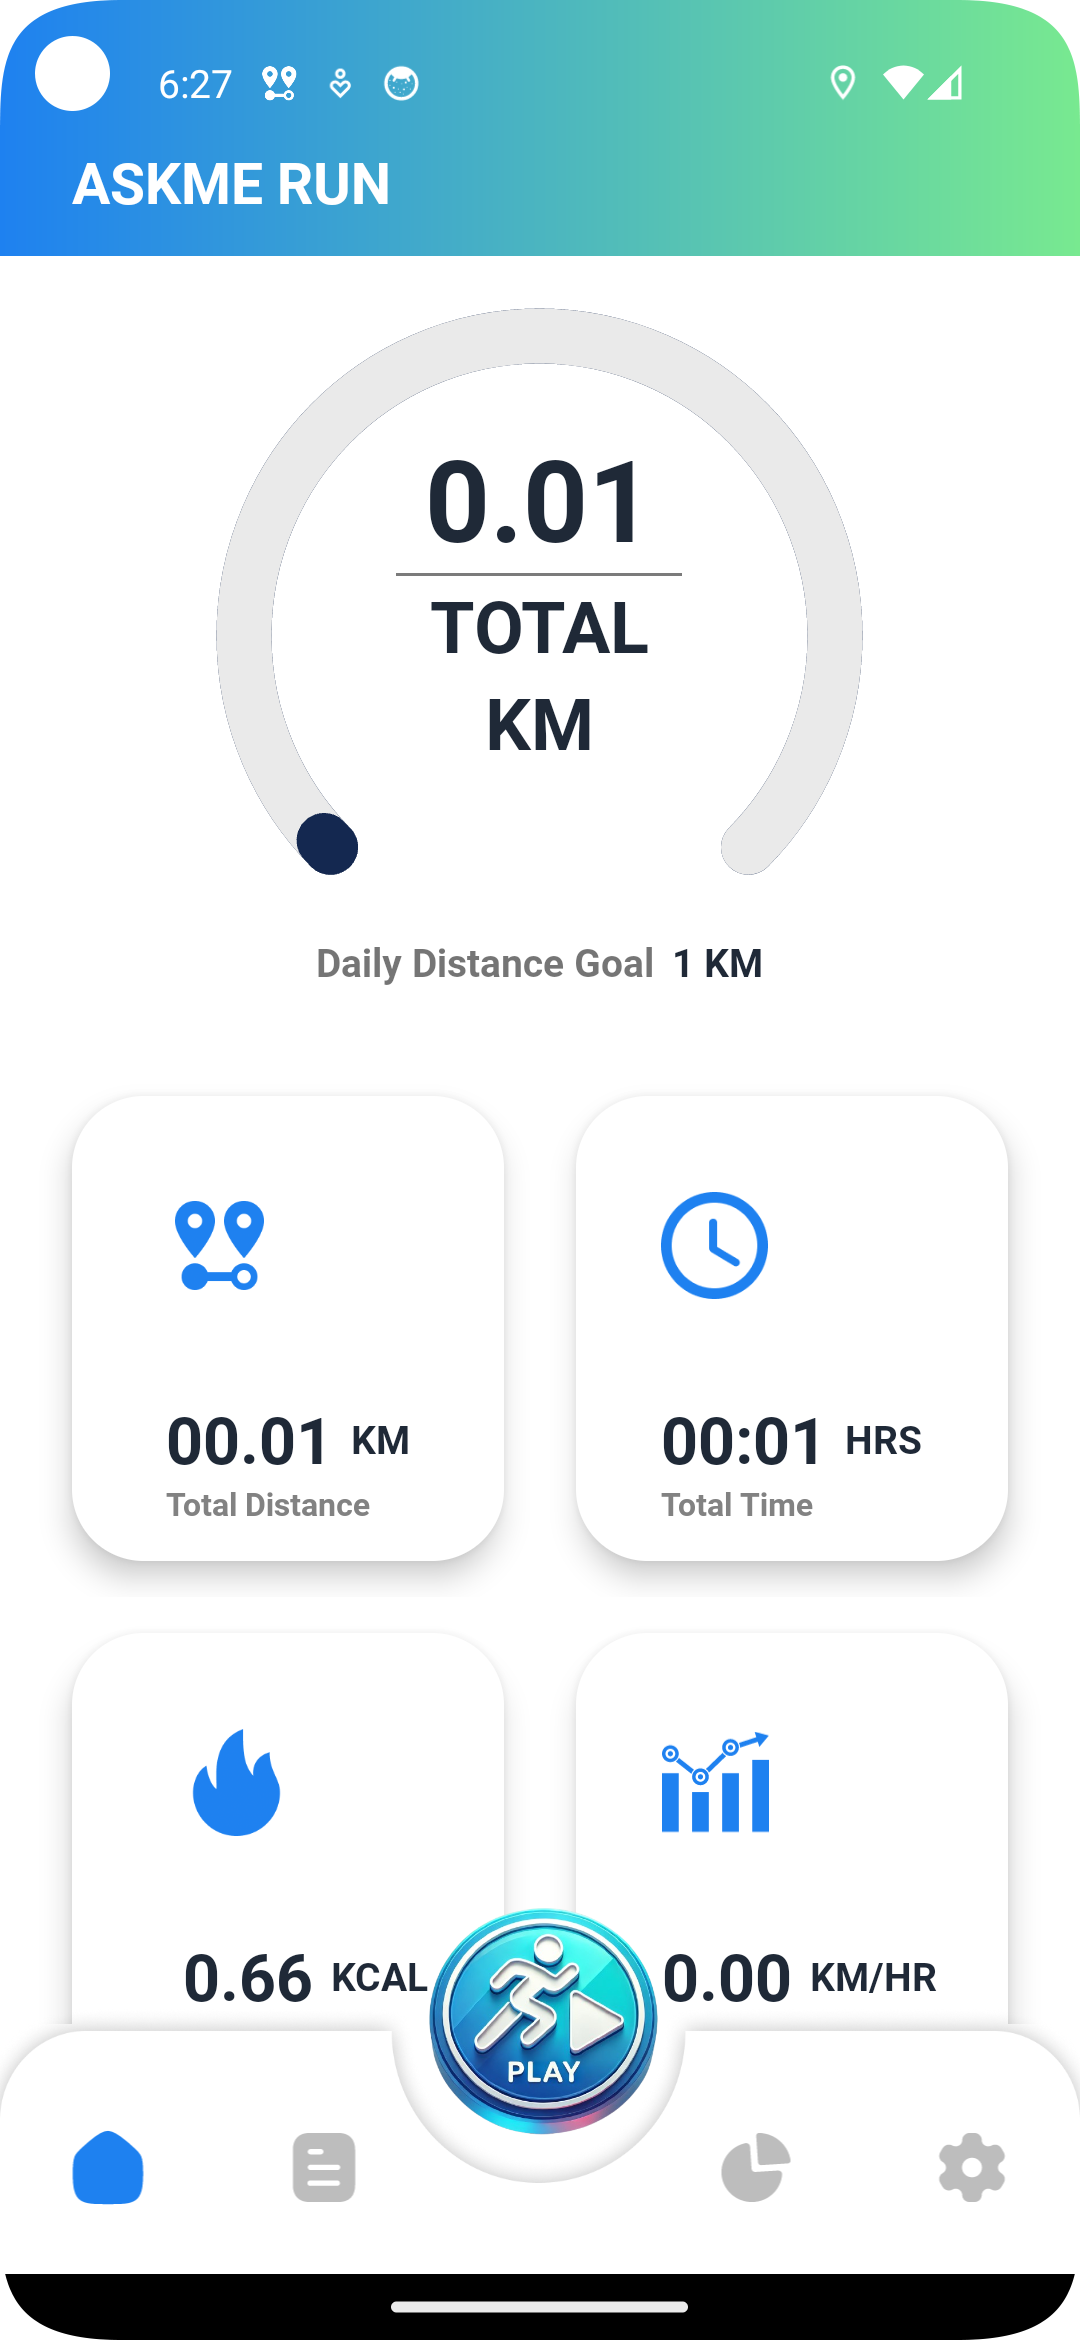
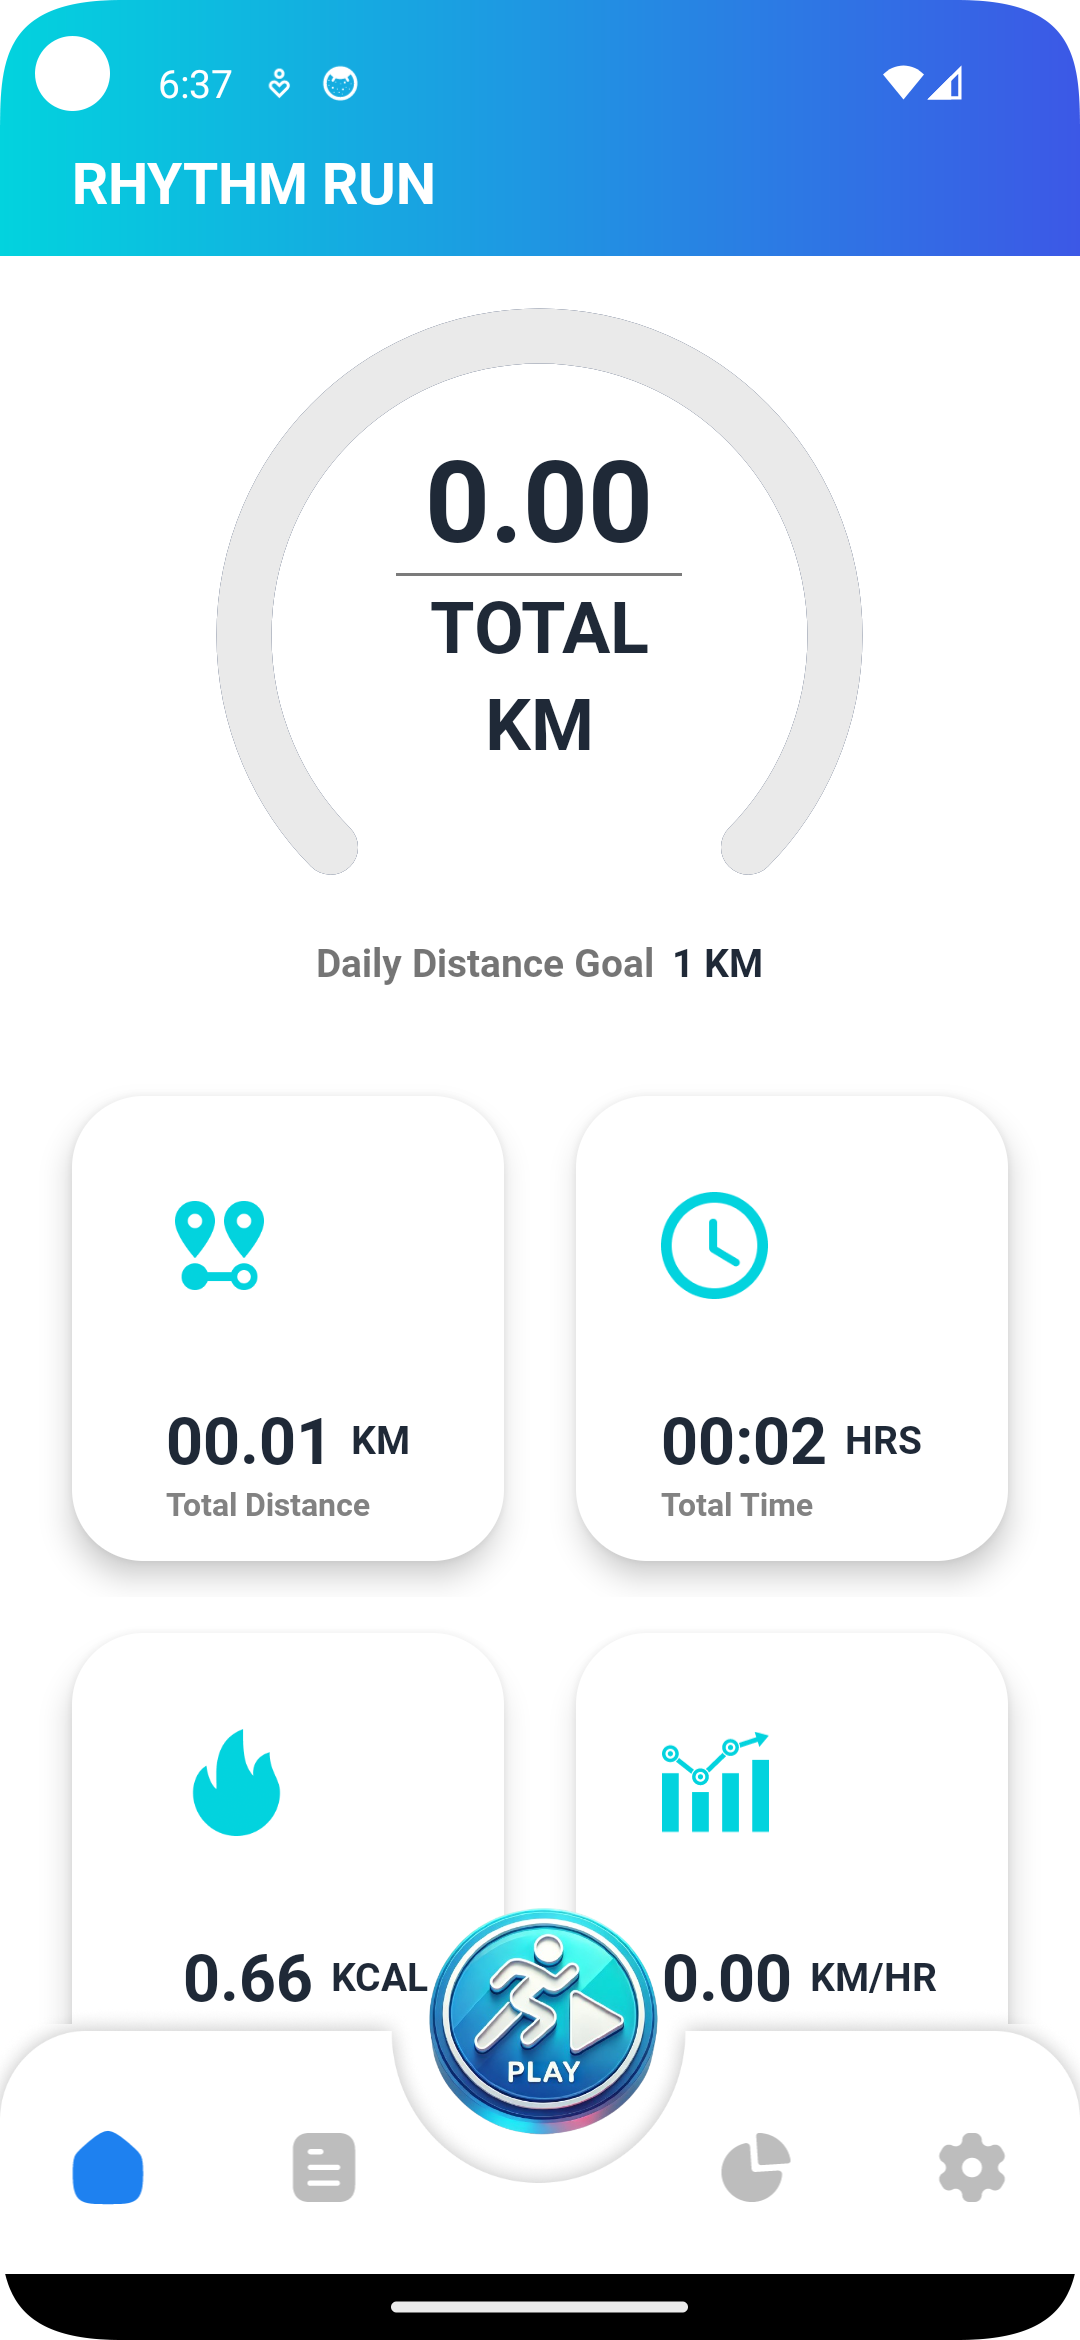
finish app rhythm run

diff --git a/README.md b/README.md
@@ -1,11 +1,11 @@
-# Askme Run Application
+# Rhythm Run Application
 
 ## Logo
   <img src="./readme/ic_app.png" width="200"/>
 
 ## Description
 
-Achieve your fitness goals with **Askme Run**, an intuitive app designed to track and analyze your running activities with precision. Whether you're a seasoned marathon runner or just starting out, Run Tracker offers real-time GPS tracking, insightful statistics, and interactive graphs to help you stay motivated and improve your performance.
+Achieve your fitness goals with **Rhythm Run**, an intuitive app designed to track and analyze your running activities with precision. Whether you're a seasoned marathon runner or just starting out, Run Tracker offers real-time GPS tracking, insightful statistics, and interactive graphs to help you stay motivated and improve your performance.
 
 ## Key Features
 
@@ -43,4 +43,4 @@ Here are some screenshots of LevelUp in action:
 
 You can download the demo version of LevelUp here:
 
-- [Download for Android](https://drive.google.com/file/d/11VM66EjP-HYRPtlMY13zH__j8PQZ4XV4/view?usp=sharing)
+- [Download for Android](https://drive.google.com/file/d/1vBN7oXq7UIYGQQt223WEBYqigVw04N9L/view?usp=sharing)
